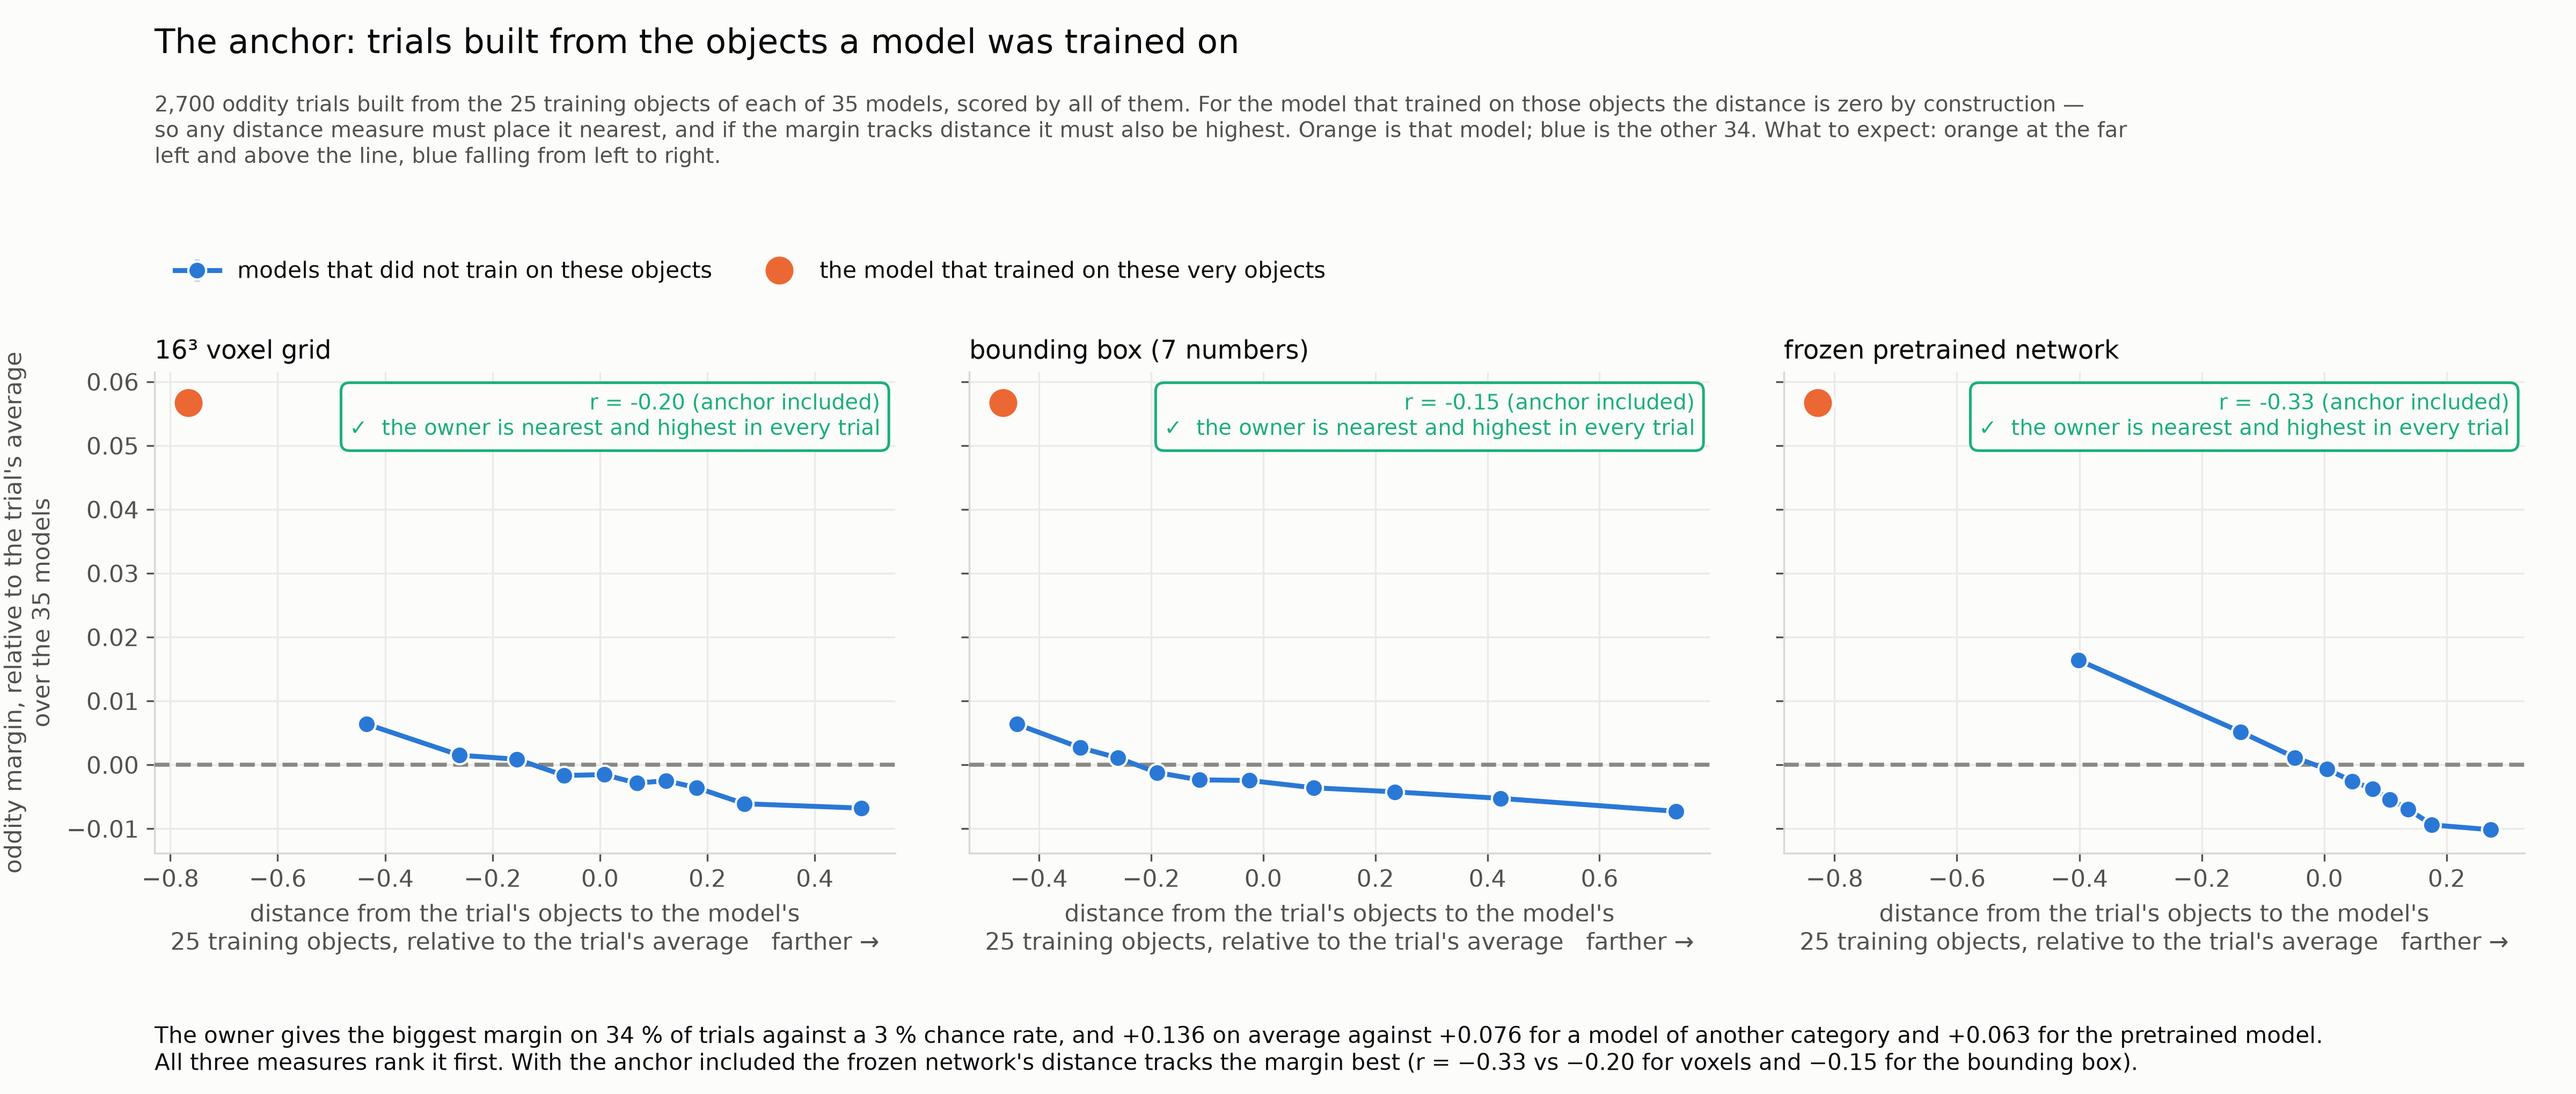
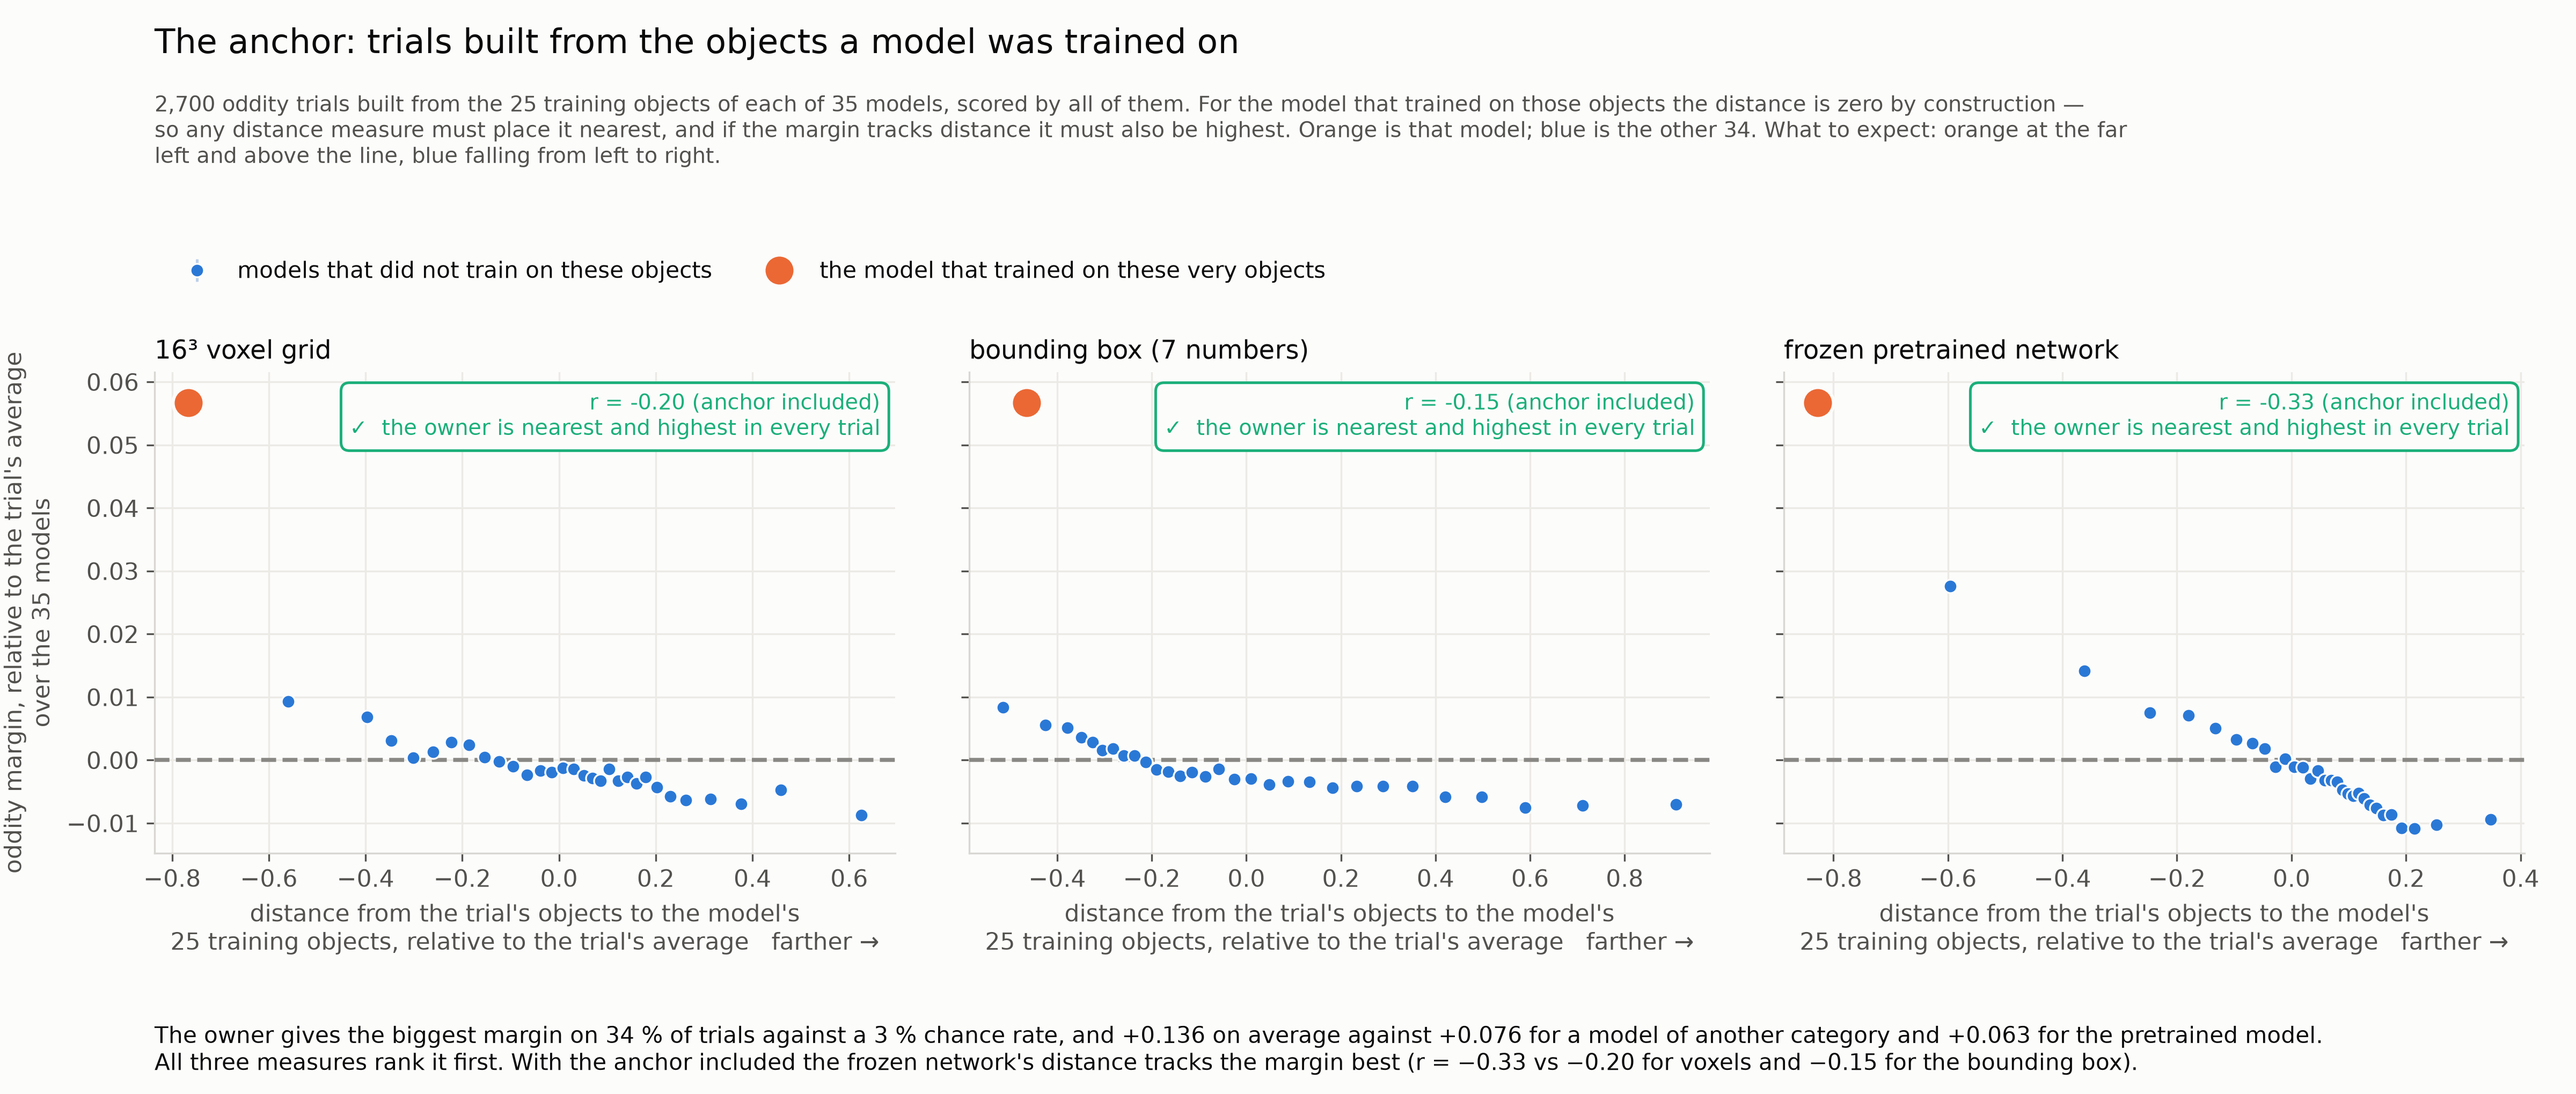
fig86: the absolute question made literal (three categories, one held-out prediction); fig82 rebuilt with 30 bins and no connecting line
Claude-Session: https://claude.ai/code/session_017LnypoNuPTEd3UcTymGK1X

diff --git a/scratch/fig_absolute_simple.py b/scratch/fig_absolute_simple.py
@@ -1,0 +1,59 @@
+"""The same claim, made literal: three categories, and one prediction."""
+from _repo import G
+import numpy as np, pandas as pd
+import matplotlib; matplotlib.use('Agg'); import matplotlib.pyplot as plt
+SURF,INK,INK2,GREY,OK,BAD='#fcfcfb','#0b0b0b','#52514e','#8a8884','#1baf7a','#eb6834'
+C={'chair':'#2a78d6','sofa':'#1baf7a','telephone':'#eb6834'}
+plt.rcParams.update({'figure.facecolor':SURF,'axes.facecolor':SURF,'savefig.facecolor':SURF,'font.family':'DejaVu Sans','text.color':INK,'axes.labelcolor':INK2,'xtick.color':INK2,'ytick.color':INK2,'axes.edgecolor':'#d8d7d2','font.size':11.5,'axes.titlesize':13})
+def style(a): a.spines['top'].set_visible(False); a.spines['right'].set_visible(False); a.grid(color='#eceae5',lw=.8,zorder=0); a.set_axisbelow(True)
+L=pd.read_csv(f'{G}/data/all_categories_long.csv.gz'); L=L[L.kind=='cluster']
+L=L.merge(pd.read_csv(f'{G}/data/dinov2_distance_long.csv.gz'),on=['model','trial'],how='left').dropna(subset=['dinov2'])
+L['gain']=L.ft-L.pre
+def prof(d,col,nb=14):
+    q=pd.qcut(d.dinov2.rank(method='first'),nb,labels=False); g=d.assign(q=q).groupby('q'); return g.dinov2.mean(),g[col].mean(),g[col].sem()
+fig,ax=plt.subplots(2,2,figsize=(14.5,11)); fig.subplots_adjust(left=.08,right=.97,top=.80,bottom=.07,hspace=.38,wspace=.24)
+# ---- row 1: the margin itself
+a=ax[0,0]; style(a)
+for c in C:
+    d=L[L.test_cat==c]; x,y,e=prof(d,'ft'); a.errorbar(x,y,yerr=e,fmt='o-',color=C[c],ms=7,mec=SURF,lw=2.6,ecolor='#d5d3ce',zorder=4)
+    a.text(x.iloc[-1]+0.02,y.iloc[-1],c,color=C[c],fontsize=12,va='center',fontweight='medium')
+a.axvline(0.6,color=INK2,ls=':',lw=1.6,zorder=3)
+vals={c:L[(L.test_cat==c)&(L.dinov2.between(0.55,0.65))].ft.mean() for c in C}
+for c,v in vals.items(): a.plot([0.6],[v],'o',ms=13,mfc='none',mec=C[c],mew=2.5,zorder=6)
+a.annotate('',xy=(0.6,min(vals.values())),xytext=(0.6,max(vals.values())),arrowprops=dict(arrowstyle='<->',color=INK,lw=2),zorder=7)
+a.text(0.63,np.mean(list(vals.values())),f'at the same distance,\nthe margin differs by {max(vals.values())-min(vals.values()):.02f}',fontsize=11,color=INK)
+a.set_xlim(0.15,1.35); a.set_ylabel('oddity margin'); a.set_xlabel('distance from the trial to the model\'s training objects   farther →')
+a.set_title('1 · the margin: every category sits at its own height',loc='left')
+# ---- row 1 right: predict a held-out category, margin
+a=ax[0,1]; style(a); held='chair'
+tr=L[L.test_cat!=held]; b=np.polyfit(tr.dinov2,tr.ft,1)
+x,y,e=prof(L[L.test_cat==held],'ft'); xs=np.linspace(0.2,1.2,50)
+a.plot(xs,np.polyval(b,xs),'--',color=INK2,lw=2.6,zorder=4,label='predicted from the other 11 categories')
+a.errorbar(x,y,yerr=e,fmt='o-',color=C[held],ms=7,mec=SURF,lw=2.6,ecolor='#d5d3ce',zorder=5,label=f'what {held} actually does')
+a.fill_between(x,np.polyval(b,x),y,color=BAD,alpha=.18,zorder=3)
+a.set_ylabel('oddity margin'); a.set_xlabel('distance   farther →'); a.set_title(f'2 · predicting a category you did not fit: {held}',loc='left'); a.legend(fontsize=10,frameon=False,loc='lower left')
+a.text(0.97,0.95,f'off by {np.mean(np.abs(np.polyval(b,x)-y)):.03f} on average —\nworse than just guessing the category mean',transform=a.transAxes,ha='right',va='top',fontsize=11,color=BAD)
+# ---- row 2: the gain
+a=ax[1,0]; style(a)
+for c in C:
+    d=L[L.test_cat==c]; x,y,e=prof(d,'gain'); a.errorbar(x,y,yerr=e,fmt='o-',color=C[c],ms=7,mec=SURF,lw=2.6,ecolor='#d5d3ce',zorder=4)
+    a.text(x.iloc[-1]+0.02,y.iloc[-1],c,color=C[c],fontsize=12,va='center',fontweight='medium')
+a.axvline(0.6,color=INK2,ls=':',lw=1.6,zorder=3)
+vals2={c:L[(L.test_cat==c)&(L.dinov2.between(0.55,0.65))].gain.mean() for c in C}
+for c,v in vals2.items(): a.plot([0.6],[v],'o',ms=13,mfc='none',mec=C[c],mew=2.5,zorder=6)
+a.text(0.63,np.mean(list(vals2.values()))+0.010,f'the gap shrinks from {max(vals.values())-min(vals.values()):.03f} to {max(vals2.values())-min(vals2.values()):.03f};\nchairs still start higher than the rest',fontsize=11,color=OK)
+a.set_xlim(0.15,1.35); a.set_ylabel('what fine-tuning ADDED to the margin\n(margin − the pretrained model on the same trial)'); a.set_xlabel('distance from the trial to the model\'s training objects   farther →')
+a.set_title('3 · what training added: much closer, not identical',loc='left')
+# ---- row 2 right: predict held-out category, gain
+a=ax[1,1]; style(a)
+b2=np.polyfit(tr.dinov2,tr.gain,1); x,y,e=prof(L[L.test_cat==held],'gain')
+a.plot(xs,np.polyval(b2,xs),'--',color=INK2,lw=2.6,zorder=4,label='predicted from the other 11 categories')
+a.errorbar(x,y,yerr=e,fmt='o-',color=C[held],ms=7,mec=SURF,lw=2.6,ecolor='#d5d3ce',zorder=5,label=f'what {held} actually does')
+a.fill_between(x,np.polyval(b2,x),y,color=OK,alpha=.18,zorder=3)
+a.set_ylabel('what fine-tuning added'); a.set_xlabel('distance   farther →'); a.set_title(f'4 · the same prediction, for what training added',loc='left'); a.legend(fontsize=10,frameon=False,loc='lower left')
+a.text(0.97,0.95,f'off by {np.mean(np.abs(np.polyval(b2,x)-y)):.03f} — the curve fitted\nwithout chairs predicts chairs',transform=a.transAxes,ha='right',va='top',fontsize=11,color=OK)
+fig.suptitle('Is the margin an absolute measure of shift? Not the margin — but what training added to it',fontsize=16,x=.08,ha='left',y=.965)
+fig.text(.08,.905,'Three categories out of twelve, and one prediction, both told twice: once with the margin (top, it fails) and once with what fine-tuning added to the margin (bottom, it works).\n'
+ '"What training added" is the model\'s margin minus the pretrained model\'s margin on the very same trial — no knowledge of the training set is needed to compute it.\n'
+ 'Top left: at one distance the three categories give margins 0.08 apart. Top right: a line fitted to eleven categories misses the twelfth. Bottom: the gap shrinks about fourfold and the prediction lands —\nthough the categories are closer, not identical.',fontsize=11,color=INK2,va='top')
+fig.savefig(f'{G}/out/figures/fig86_absolute_simple.png',dpi=300); print('[fig] 86')

diff --git a/scratch/analyze_anchor.py b/scratch/analyze_anchor.py
@@ -68,8 +68,8 @@ NAMES={'voxel16':'16³ voxel grid','bbox':'bounding box (7 numbers)','dinov2':'f
 fig,ax=plt.subplots(1,3,figsize=(16,6.8),sharey=True); fig.subplots_adjust(left=.06,right=.98,top=.66,bottom=.22,wspace=.1)
 for a,nm in zip(ax,['voxel16','bbox','dinov2']):
     style(a); sub=L[L[nm].notna()].copy(); gg=sub.groupby('trial'); sub['xc']=sub[nm]-gg[nm].transform('mean')
-    oth=sub[~sub.is_owner]; q=pd.qcut(oth.xc.rank(method='first'),10,labels=False); b=oth.assign(q=q).groupby('q')
-    a.errorbar(b.xc.mean(),b.rel.mean(),yerr=b.rel.sem(),fmt='o-',color=BLUE,ms=8,mec=SURF,lw=2.2,ecolor='#bcd0ea',zorder=4,label='models that did not train on these objects')
+    oth=sub[~sub.is_owner]; q=pd.qcut(oth.xc.rank(method='first'),30,labels=False); b=oth.assign(q=q).groupby('q')
+    a.errorbar(b.xc.mean(),b.rel.mean(),yerr=b.rel.sem(),fmt='o',color=BLUE,ms=6,mec=SURF,mew=.8,ecolor='#bcd0ea',elinewidth=1.2,zorder=4,label='models that did not train on these objects')
     ow=sub[sub.is_owner]; a.errorbar([ow.xc.mean()],[ow.rel.mean()],yerr=[ow.rel.sem()],fmt='o',color=ORA,ms=14,mec=SURF,mew=1.5,ecolor=ORA,zorder=5,label='the model that trained on these very objects')
     a.axhline(0,color=GREY,ls='--',lw=1.8,zorder=3)
     r=stats.pearsonr(sub.xc,sub.rel)[0]

diff --git a/REASONING.md b/REASONING.md
@@ -17,7 +17,7 @@ Template — one line each:
 **Because:** The lead's objections were right in mechanism and did not change the conclusion, which makes the conclusion stronger: the obstacle is not the ruler but the prior baked into the readout. Subtracting the pretrained margin is available to anyone — it needs no knowledge of the training set — so it is a legitimate definition of the readout rather than a fitted correction.
 **Rejected:** Presenting the difference-based result as "the margin is absolute" (it is the difference that is); dropping the raw-magnitude variants after they failed (their near-tie with the normalised ones is the evidence that normalisation was not the problem).
 **Implication:** For the paper: define the readout as margin-minus-baseline wherever an absolute claim is made; keep the raw margin for within-trial comparisons, where it is stronger (r = −0.25 vs the difference). For the human side the analogue is a per-participant baseline — the same subtraction.
-**Steering:** lead — all three objections, and the instruction to bin less aggressively; agent — the battery, the y-axis test and the figures.
+**Steering:** lead — all three objections, and the instruction to bin less aggressively; agent — the battery, the y-axis test and the figures. The lead could not read the first two figures (fig84, fig85: criterion scatter and R² bars); evidence/fig86 is the replacement — three named categories and one held-out prediction, the same claim told twice. Keep fig84/85 as the full version, lead with fig86.
 **Confidence:** lead (TB): — (to fill) · agent (Claude Opus 5): high on the failure of the absolute reading for the raw margin (eight measures, two criteria); medium on the difference-based result — R² = +0.01 is real but small, and one category is still negative.
 
 <a id="D41"></a>

diff --git a/evidence/README.md b/evidence/README.md
@@ -49,3 +49,4 @@ level-3 residualised test (session record 2026-09-19; script to be added).
 | fig83_anchor_views.png | `scratch/fig_anchor_views.py` | `data/anchor_long.csv.gz` | D40 |
 | fig84_absolute_vs_relative.png | `scratch/fig_absolute_vs_relative_2.py` | `data/all_categories_long.csv.gz`, `data/dinov2_distance_long.csv.gz` | D41 |
 | fig85_absolute_fixed.png | `scratch/fig_absolute_fixed.py` | `data/absolute_measure_search.csv`, `data/all_categories_long.csv.gz`, `data/dinov2_distance_long.csv.gz` | D42 |
+| fig86_absolute_simple.png | `scratch/fig_absolute_simple.py` | `data/all_categories_long.csv.gz`, `data/dinov2_distance_long.csv.gz` | D42 (the readable version of fig84/85) |
